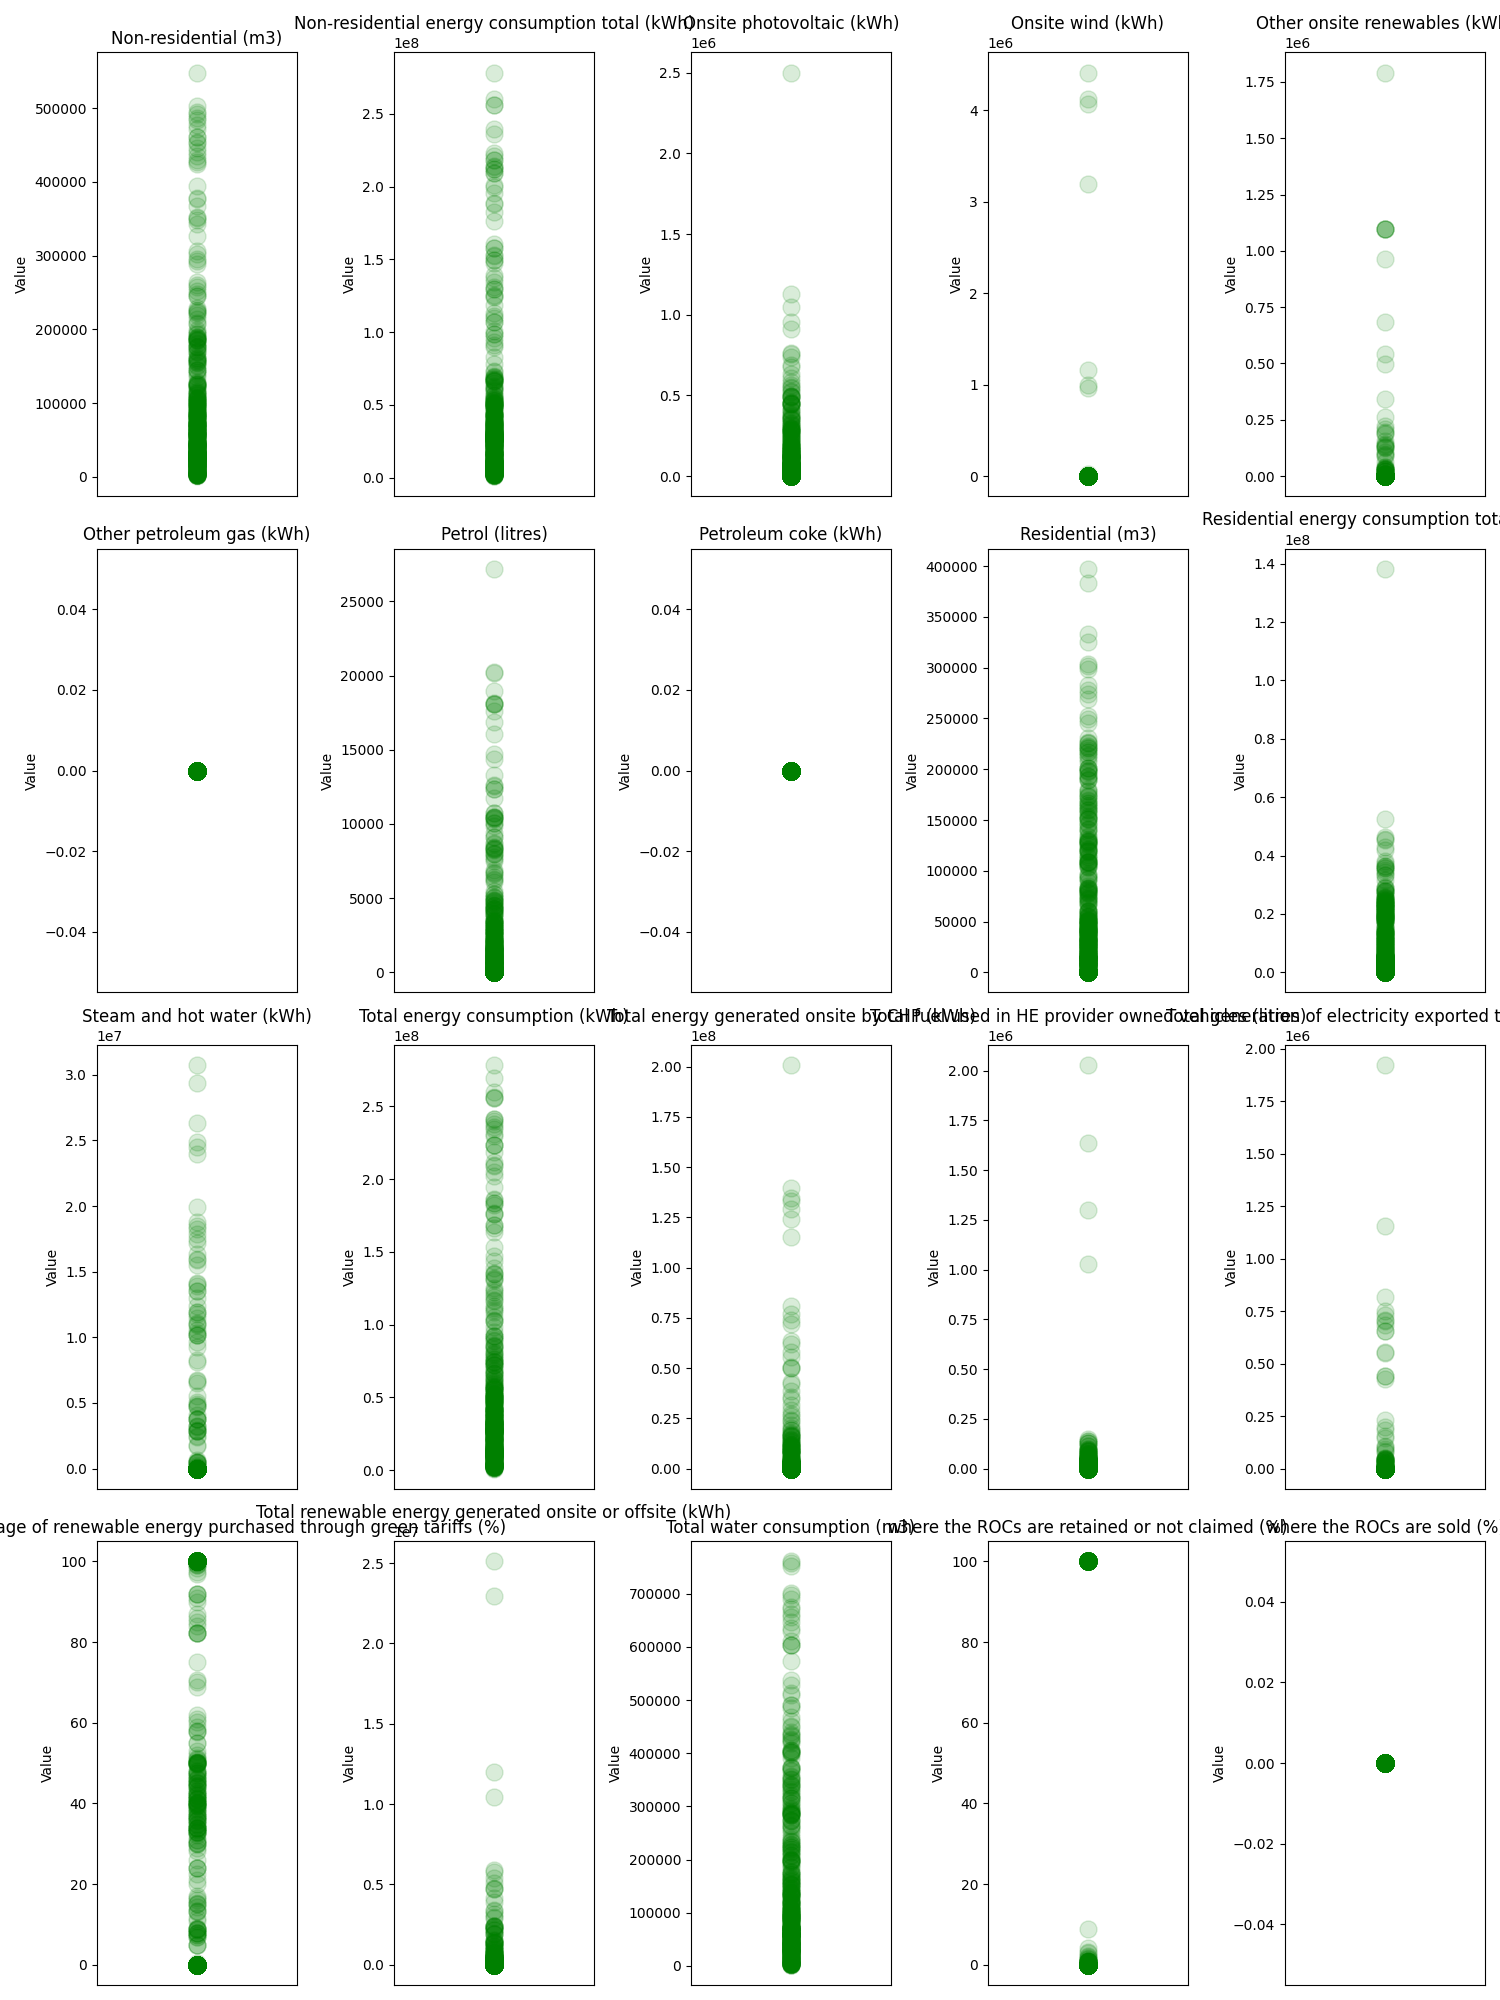
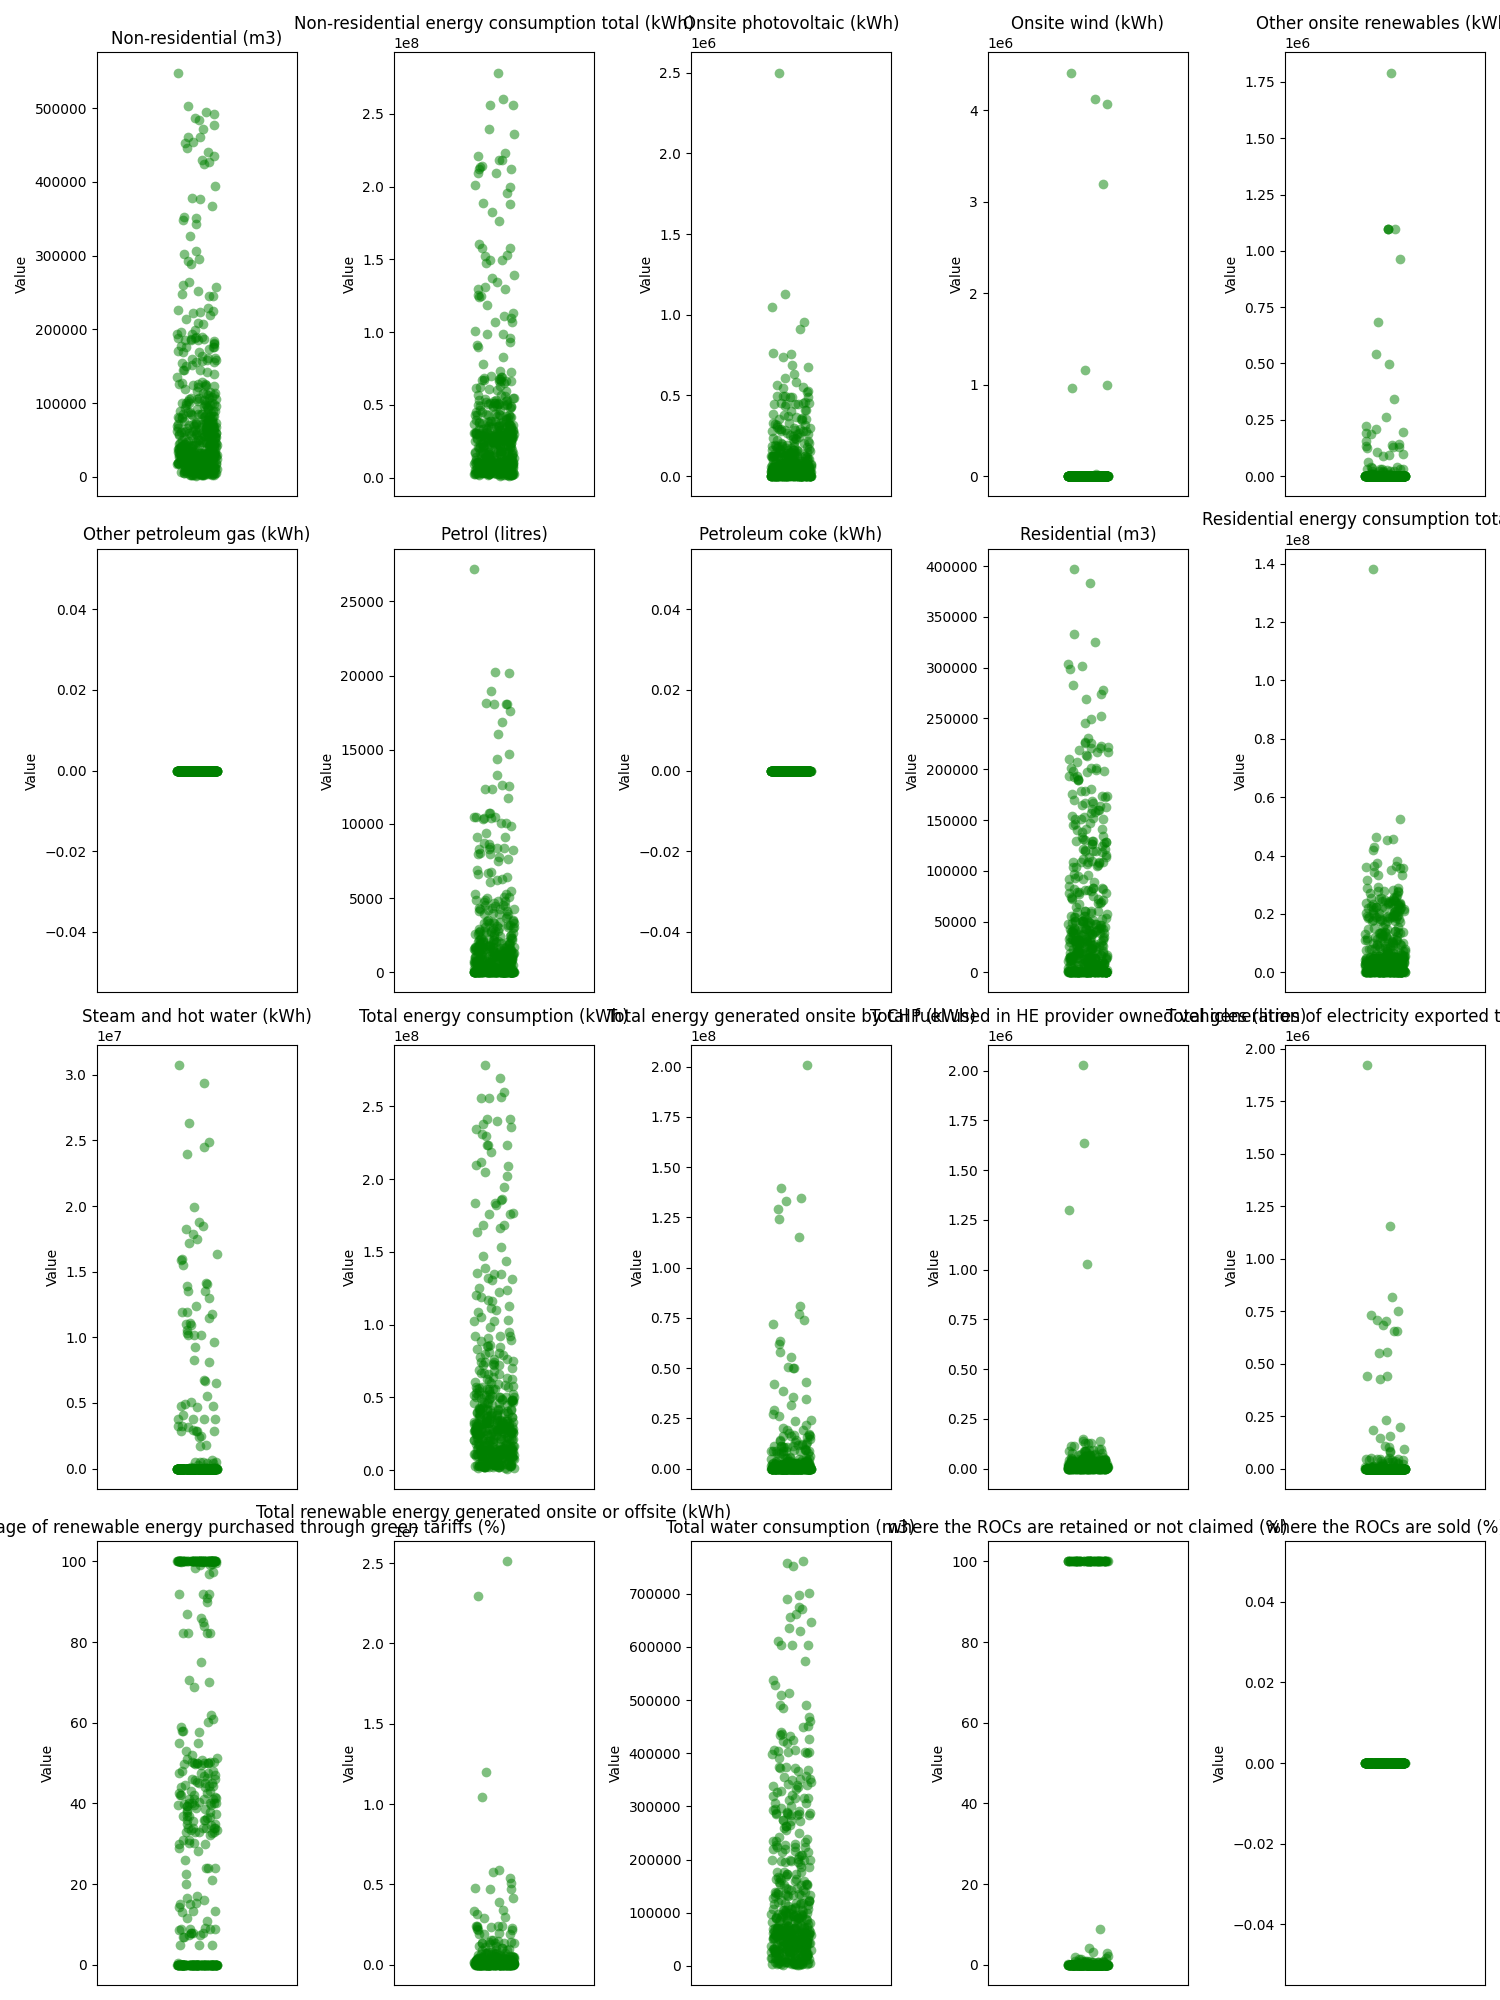
Final data preparation code - with long functions

diff --git a/src/coursework1/data.py b/src/coursework1/data.py
@@ -4,8 +4,9 @@ import matplotlib
 matplotlib.use('TkAgg')
 import matplotlib.pyplot as plt
 import pandas as pd
+import seaborn as sns
 
-
+#Function including docstring that will print information that allows understanding of the raw DataFrame
 def understand_df(dfdata):
     """Prints information that allows understanding of the DataFrame
 
@@ -14,21 +15,28 @@ def understand_df(dfdata):
     """
     print('\nRAW DATASET INFORMATION\n')
 
-    #The following code will provide information on the raw dataset
+    #Printing the basic information on the raw dataset
     print("\nThe shape of the dataset is: \n", dfdata.shape)
     print("\nThe columns of the dataset are: \n", dfdata.columns)
     print("\nThe first 5 rows of the dataset are: \n", dfdata.head(5))
     print("\nThe last 5 rows of the dataset are: \n", dfdata.tail(5))
+
+    #Printing the unique values in the Country and Regionn columns to get an idea of the univeristies included in the dataset
     print("The unique values in the column 'Country of HE provider' are: \n", dfdata['Country of HE provider'].unique())
     print("The unique values in the column 'Region of HE provider' are: \n", dfdata['Region of HE provider'].unique())
+
+    #Printing the data types of the columns in the dataset
     print("\nThe data types of the dataset are: \n", dfdata.dtypes)
     
+    #Printing the number of null values in each column
     dfdata_null_columns = dfdata.isnull().sum()
     print("\nThe number of null values in each column is: \n", dfdata_null_columns)
 
+    #Printing the rows with alphatical values in the 'Value' column
     print("\nThese rows have alphatical values in the 'Value' column: \n", dfdata[dfdata['Value'].str.isalpha()])
 
 
+#Function including docstring that will prepare the data for use in the data visualisation dashboard
 def prepare_df(dfdata):
     """The raw dataset is prepared for use in the data visualisation dashboard
     
@@ -43,10 +51,10 @@ def prepare_df(dfdata):
     """
 
     print('\nPREPARED DATASET INFORMATION\n')
+
+    #The rows with null values are removed and to check this, the number of null values in each column is printed
     df_dropna = dfdata.dropna()
     print("\nThe number of null values in each column is: \n", df_dropna.isnull().sum())
-
-    #TODO: Explain the following code in the pdf
 
     #Remove the rows where the 'Academic Year' is '2015/16' or '2016/17' or '2017/18'
     df_dropna = df_dropna[df_dropna['Academic Year'] != '2015/16']
@@ -56,45 +64,66 @@ def prepare_df(dfdata):
     #Remove the rows where 'Country of HE provider' is not 'England'
     df_dropna = df_dropna[df_dropna['Country of HE provider'] == 'England']
 
+    #Print the number or rows and columns in the dataset after removing the rows of universities 
+    # not in England and removing all the data from before 2018/19
     print('\n The shape of the prepared dataset is: \n', df_dropna.shape)
 
+    #Rename the 'Table' column to 'Class' and replace the values 
+    # in the 'Class' column with the names of the classes
     df_class_column = df_dropna.rename(columns={'Table':'Class'})
     df_table_replaced = df_class_column.replace({'Table-1': 'Building and spaces',
                                             'Table-2': 'Energy',
                                             'Table-3': 'Emissions and waste',
                                             'Table-4': 'Transport and environment',
                                             'Table-5': 'Finances and people'})
+    
+    #Print the columns of the dataset after renaming the 'Table' 
+    # column to 'Class' and replacing the values
     print('\nThe columns of the prepared dataset are: \n', df_table_replaced.columns)
+
+    #Remove the percentage sign from the end of the values in the 'Value' column
     df_table_replaced.loc[:, 'Value'] = df_table_replaced['Value'].str.rstrip('%')
     
     #TODO: Explain this in the pdf
+    #There are som rows with alphabetical values in the 'Value' column. The 
+    # majority of these rows will be replaced with a numerical rating system to 
+    # make them easier to analyse.
 
+    #The method used to calculated scope 3 emissions is rated from Basic to Detailed 
+    # but this is replaced with numbers to make it easier to analyse
     df_table_replaced['Value'] = df_table_replaced['Value'].apply(lambda x: 
                                                                   1 if x == 'Basic' 
                                                                     else (2 if x == 'Medium' 
                                                                     else (3 if x == 'Detailed' 
                                                                     else x)))
     
+    #There are various categories related to HEIs environmental management with 'Yes' or'No' values. 
+    # The Fairtrasde accreditation existence category also includes the value 'Working towards 
+    # accreditation'. Again, these are replaced with numbers to make it easier to analyse.
     df_table_replaced['Value'] = df_table_replaced['Value'].apply(lambda x: 
                                                                   0 if x == 'No' 
                                                                     else (0.5 if x == 'Working towards accreditation' 
                                                                     else (1 if x == 'Yes' 
                                                                     else x)))
     
+
     #TODO:Explain this in the pdf
+    #The remaining rows with alphabetical values in the 'Value' column are printed
     non_numeric_rows = df_table_replaced[pd.to_numeric(df_table_replaced['Value'], errors='coerce').isna()]
     print("\n The rows with non numeric values in the 'Vaue' column are", non_numeric_rows)
     
     df_prepared = df_table_replaced
 
+    #Print the data types of the columns in the dataset after cleaning
     print("\nThe data types of the prepared dataset are: \n", df_prepared.dtypes)
 
+    #Save the prepared dataset to a csv file
     prepared_dataset_filepath = Path(__file__).parent.joinpath('dataset','dataset_prepared.csv')
     df_prepared.to_csv(prepared_dataset_filepath, index=False)
 
     return df_prepared
 
-#Function including docstring that will explore the data by drawing plots to undertand if there are any outliers
+#Function including docstring that will explore the data by drawing stripplots to undertand if there are any outliers
 def explore_data(df_prepared):
     """ The data is explored by drawing plots to understand if there are any outliers
     
@@ -148,10 +177,10 @@ def explore_data(df_prepared):
             for i, (category, category_group) in enumerate(class_df.groupby('Category')):
                 if figure_num * max_subplots_per_figure <= i < (figure_num + 1) * max_subplots_per_figure:
                     ax = axes[current_subplot // num_columns, current_subplot % num_columns]
-                    x_values = [0] * len(category_group)  # Create a list of zeros as x values (unconnected points)
-                    y_values = category_group['Value']
-                    # Use scatter to set the opacity (alpha) for points
-                    ax.scatter(x_values, y_values, marker='o', alpha=0.15, s=150, c='green', jitter=True)
+
+                    # Create a Seaborn stripplot for the category
+                    sns.stripplot(data=category_group, x=[0] * len(category_group), y='Value', ax=ax, alpha=0.5, jitter=True, color='green', size=7)
+
                     ax.set_title(f'{category}')
                     ax.set_ylabel('Value')
 
@@ -176,7 +205,7 @@ def explore_data(df_prepared):
 
             # Close the current figure to release resources
             plt.close(fig)
-
+    
 
 
 if __name__ == "__main__":
